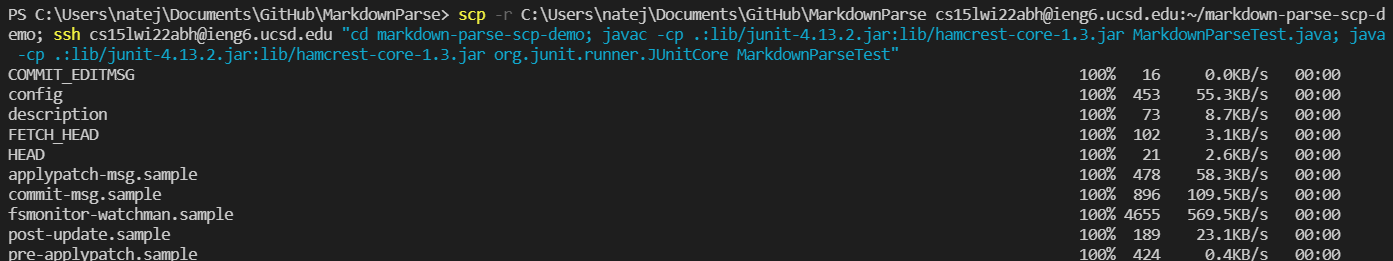
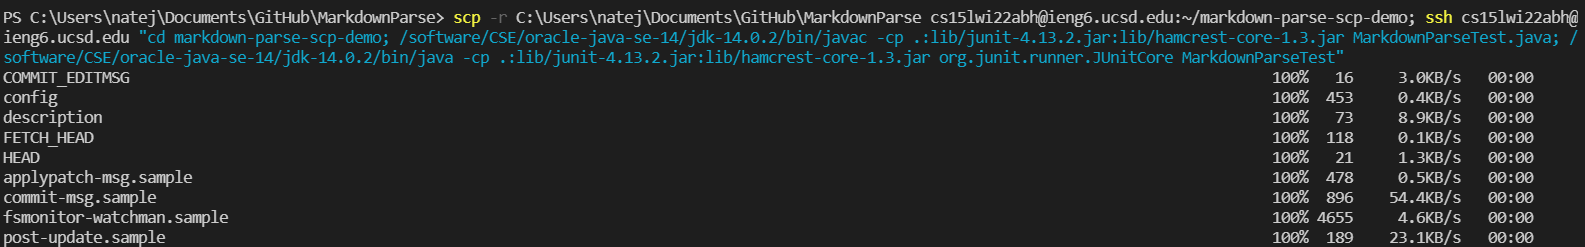
feedback addressed

Changed region(s): [[0.0, 0.0283, 1.0, 1.0]]

diff --git a/lab-report-3-week-6.md b/lab-report-3-week-6.md
@@ -22,7 +22,7 @@ Back to [All Labs](https://njmorales.github.io/cse15l-lab-reports/)
 * Screenshot of the one-line command:  
 ![Image](scp-r_onelinecommand.png)
 
-* Screenshot of the output (unexpected error):
-![Image](scp-r_error_output.png)
+* Screenshot of the successful output:
+![Image](scp-r_onelinecommandoutput.png)
 
-* I utilized the same commands from the week 4 lab to attempt to copy the directory and run the tests in one line. Though these commands work separately, for some reason when ran together in one line they do not work and I receive a message about a Java Runtime version mismatch between my code and the ieng6 compiler. I also tried to use the `make test` command as well and received the same result. I am not sure if this is a problem on my end, as my code compiles and runs correctly when I `scp`, `ssh`, and run the tests separately. 
+* As you can see here I used a combination of `scp` and `ssh` commands alongside `;` to successfully copy the whole MarkdownParse directory and run the tests contained in `MarkdownParseTest.java` all in one line in the terminal. All of the tests passed after the run. 
